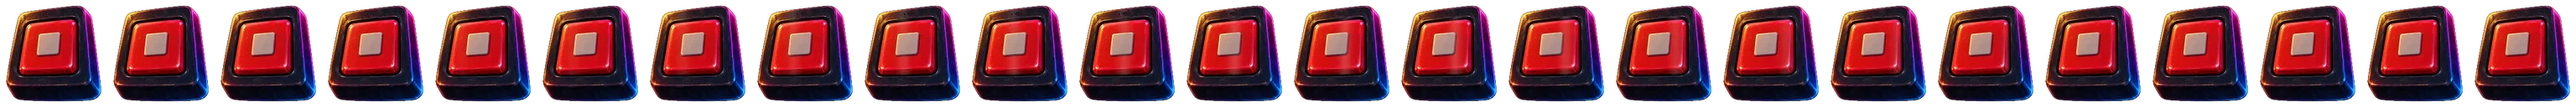
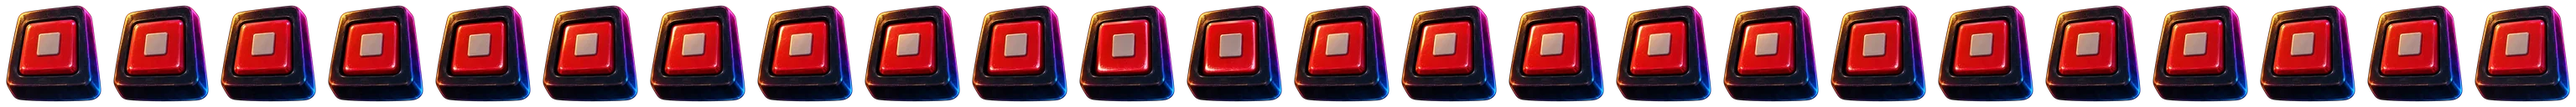
Symbols: batch 05b, the eight remaining idle loops
Buttons, the three tapes and REW now have generated loops like the other
six; the delivered strips were built from our game stills, so they land
without re-cutting. ART.md section 8 and CHANGELOG 0.9.6.

Claude-Session: https://claude.ai/code/session_01Q8JLe2aN49T9u6SZ1cFgkB

diff --git a/ART.md b/ART.md
@@ -245,4 +245,4 @@ TILE / COVER: `promotional art, the night clerk grinning in front of the glowing
 
 ## 8. Пачка 05: живые символы (idle-петли) — промпты выданы 2026-10-12
 По референсу пользователя (`art/ref/symbol_idle_ref.jpg`): у каждого стоячего символа своя короткая петля. План, промпты и интеграция: `art/batches/batch_05_symbol_idle.md`.
-**Принято 2026-10-13 (частично).** Пришёл экономный вариант: видео (Kling 3.0, 31,5 кредита) только у M1, M2, M3, P, S, W; у L1–L4, H1–H3 и R — локальная анимация поверх стила (нажатие и вспышка кнопок, блики, пульс стрелок), движение почти незаметное (у L3, R, H1–H3 среднее отклонение кадра < 2/255). Мастера пачки не совпадают с нашими стилами по масштабу, поэтому ленты перерезаны из mp4 на зелёном `tools/art/cut_sym_strips.py` с выравниванием по нашим мастерам (первый кадр отличается от стила на 3–9/255). В игре: `frontend/src/assets/symbols/idle/` (14 лент 24 кадра 256×256, 3.5 МБ, `m/` 128×128, 1.3 МБ, `idle.json`), грузятся после PLAY; петли только на 3 видимых рядах со случайной фазой и паузой 1–3 с, на спине выключены, в выигрыше без пауз. Исходники: `art/masters/final/sym_b05/`. Осталось: 8 клипов (кнопки, кассеты, REW) по промптам §1 пачки 05.
+**Принято 2026-10-13 (частично).** Пришёл экономный вариант: видео (Kling 3.0, 31,5 кредита) только у M1, M2, M3, P, S, W; у L1–L4, H1–H3 и R — локальная анимация поверх стила (нажатие и вспышка кнопок, блики, пульс стрелок), движение почти незаметное (у L3, R, H1–H3 среднее отклонение кадра < 2/255). Мастера пачки не совпадают с нашими стилами по масштабу, поэтому ленты перерезаны из mp4 на зелёном `tools/art/cut_sym_strips.py` с выравниванием по нашим мастерам (первый кадр отличается от стила на 3–9/255). В игре: `frontend/src/assets/symbols/idle/` (14 лент 24 кадра 256×256, 3.5 МБ, `m/` 128×128, 1.3 МБ, `idle.json`), грузятся после PLAY; петли только на 3 видимых рядах со случайной фазой и паузой 1–3 с, на спине выключены, в выигрыше без пауз. Исходники: `art/masters/final/sym_b05/`. **Пачка 05b принята 2026-10-13:** 8 недостающих клипов (L1–L4, H1–H3, R; Kling 3.0, 36 кредитов) сгенерированы от наших игровых стилов, неподвижный корпус сохранён композитингом из мастера, поэтому ленты встали без перерезки (альфа совпадает со стилом, первый кадр отличается только сжатием 3–7/255, стык петли < 1/255). Движение: нажатие и вспышка кнопок, бегущие стрелки REW-кнопки, мигание полосок PAUSE, глаз Horror, взрыв Action, планета Sci-Fi, стрелки и катушки REW. Все 14 символов живут: `frontend/src/assets/symbols/idle/` 4.7 МБ (десктоп 3.4 + телефон 1.3). Исходники: `art/masters/final/sym_b05b/`.

diff --git a/CHANGELOG.md b/CHANGELOG.md
@@ -1,5 +1,8 @@
 # CHANGELOG
 
+## 0.9.6 — 2026-10-13
+- Пачка 05b принята: все 14 символов с собственной idle-петлёй из видео (добавлены кнопки пульта, три кассеты и REW). Ленты пришли выровненными по игровым стилам, заменены 8 файлов в `assets/symbols/idle/` (+ `m/`), вес набора 4.7 МБ. Сборка v13.
+
 ## 0.9.5 — 2026-10-13
 - Пачка 05 принята частично: символы на поле живут (idle-петли 2 с, 24 кадра): видео у попкорна, стакана, телефона, Дела, ключей и WILD; у кнопок пульта, кассет и REW пришла локальная анимация, почти незаметная — 8 клипов ещё нужно сгенерировать. Ленты перерезаны под наши стилы (`tools/art/cut_sym_strips.py`), 4.8 МБ после PLAY. Петли на видимых рядах со случайной фазой и паузой, стоп на спине, в выигрыше без пауз, reduced-motion выключает. 60 fps в Chromium на 15 ячейках. qa 18/18, qa_polish 29/29, qa_scenes 24/24. Сборка v12 (build/late_fee_video_fe_v12.zip, только RGS, 28.5 МБ).
 
